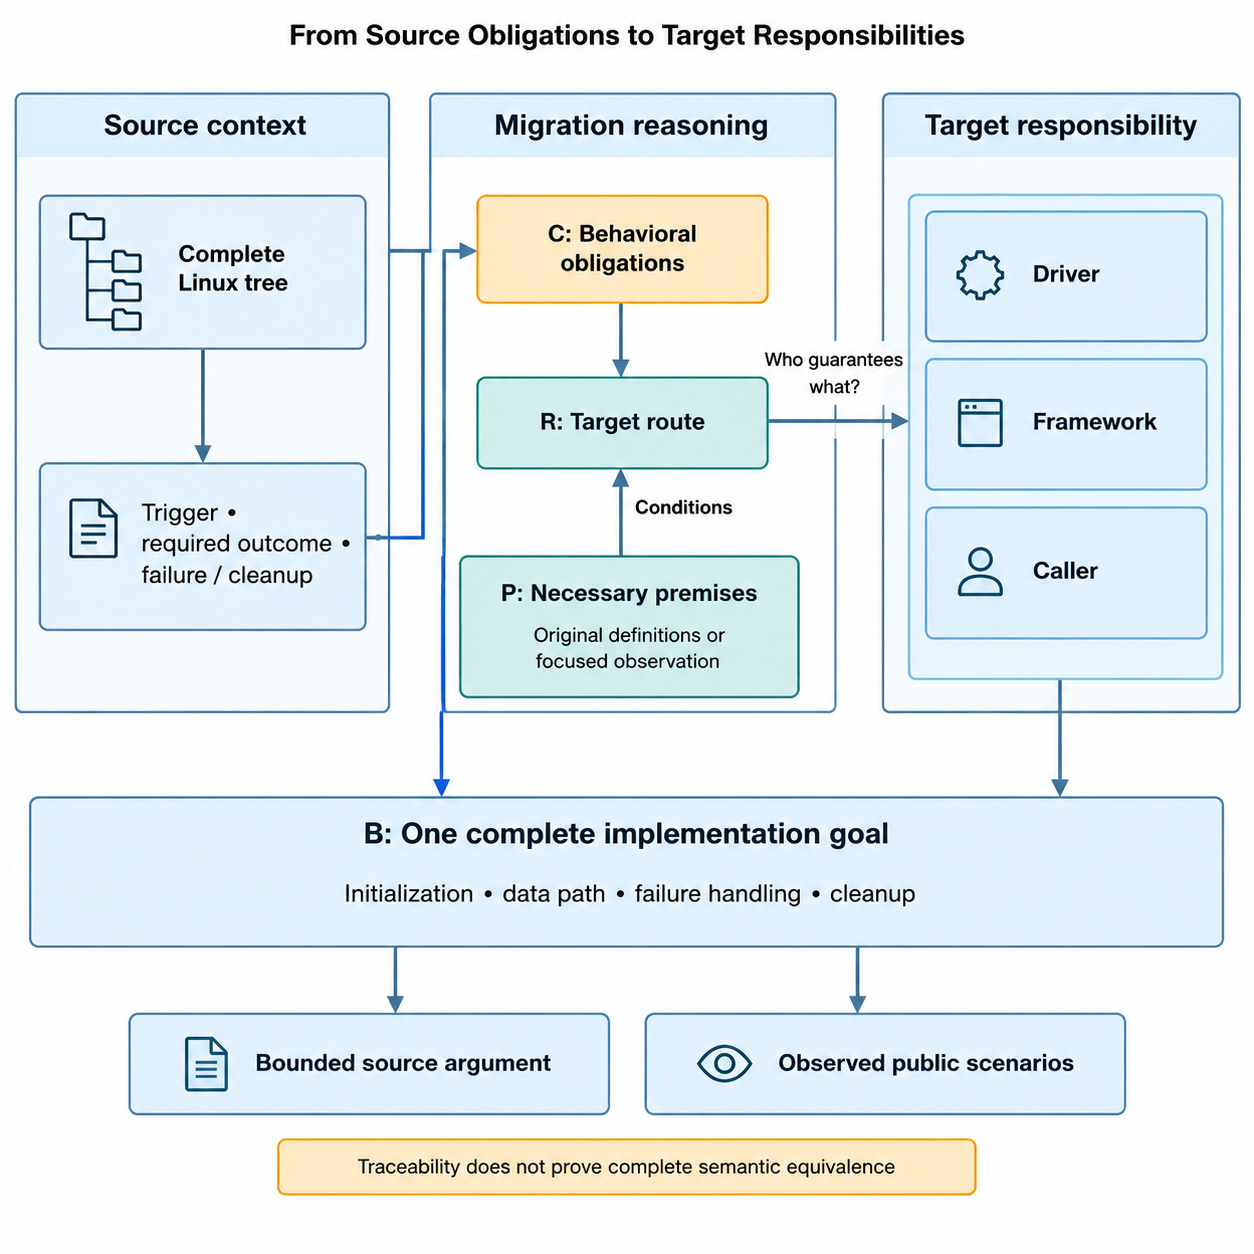
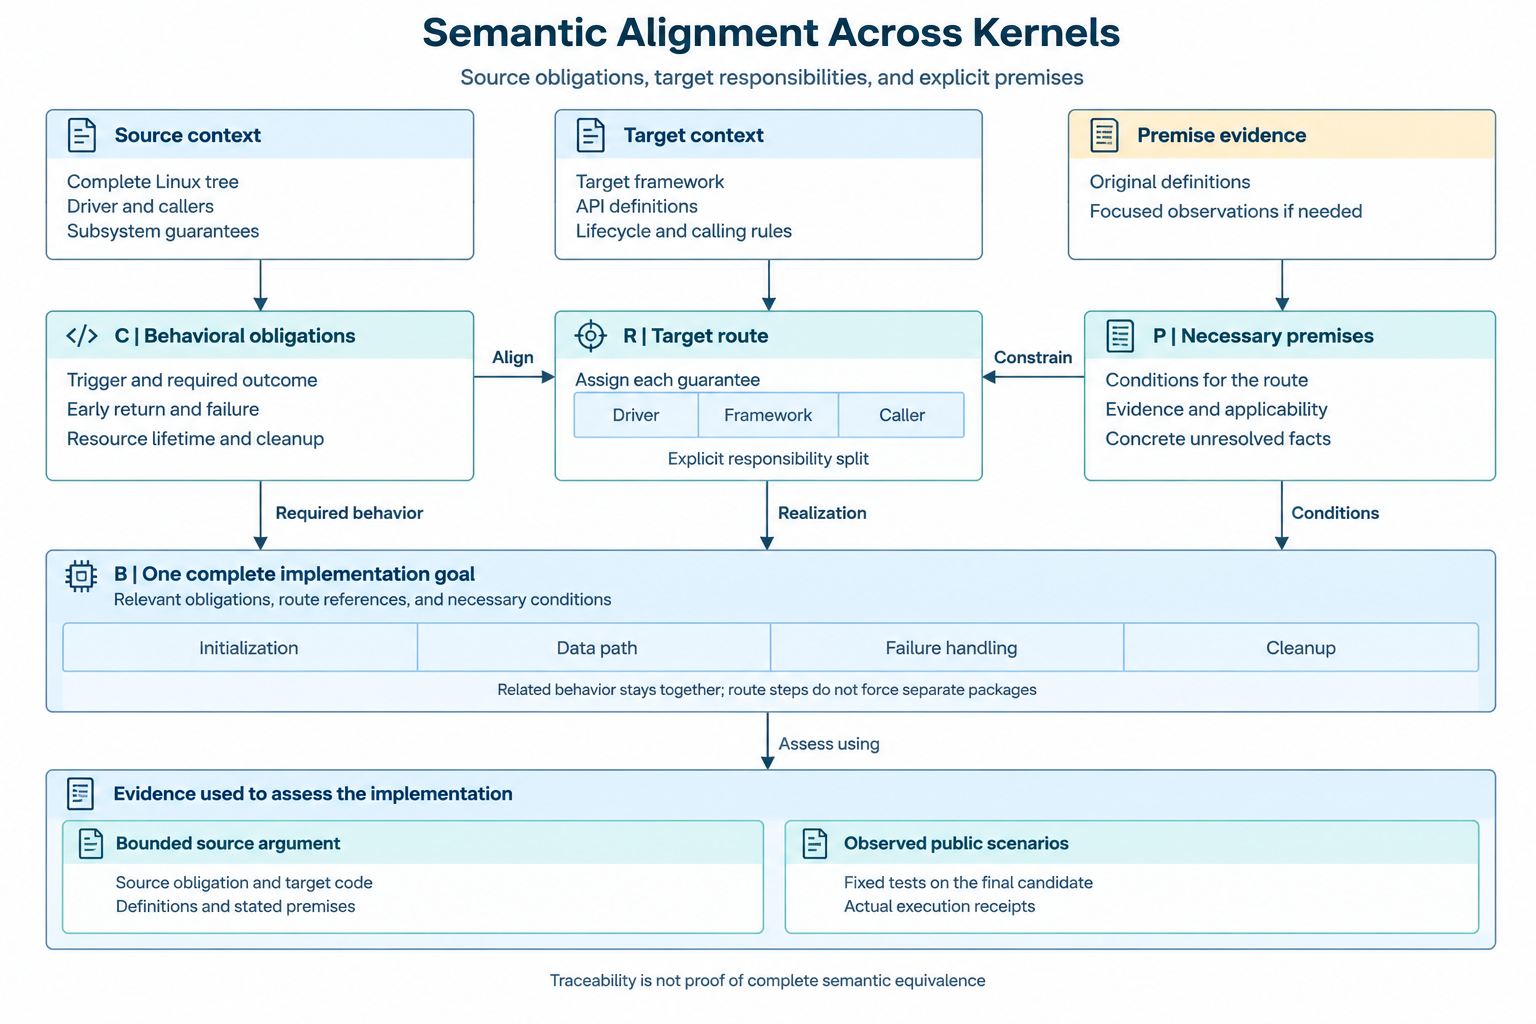
Redraw semantic alignment figure with explicit responsibility relationships

diff --git a/docs/figure-prompts/research-20261004/README.md b/docs/figure-prompts/research-20261004/README.md
@@ -1,23 +1,23 @@
 # 科研汇报配图
 
-对应[科研汇报](../../research/FACTORY_RESEARCH_REPORT.zh-CN.md)。本轮按用户要求直接使用已有图片，不重新生成，不修改图片内容。选中图片复制到报告的 `figures/` 目录，报告不依赖本地临时输出目录。
+对应[科研汇报](../../research/FACTORY_RESEARCH_REPORT.zh-CN.md)。本轮先按用户要求使用已有图片；语义对齐图随后按用户要求从头重新生成，未编辑旧图。选中图片复制到报告的 `figures/` 目录，报告不依赖本地临时输出目录。
 
 | 图 | 报告图片 | 原始文件（相对仓库根目录） | 提示词 |
 | --- | --- | --- | --- |
 | 1 总体架构 | [图片](../../research/figures/01-architecture.jpeg) | `output/imagegen/56758fea-67e3-4884-af86-b42c617751f6.jpeg` | 根目录新增图片，具体生成请求未记录；[原始架构规格](01-architecture.txt)供对照 |
-| 2 语义对齐 | [图片](../../research/figures/02-semantic-alignment.png) | `output/imagegen/research-20261004/03-semantic-alignment-final.png` | [原始规格](03-semantic-alignment.txt)、[连线修订](03-semantic-alignment-arrow-correction.txt) |
+| 2 语义对齐 | [图片](../../research/figures/02-semantic-alignment.png) | `output/imagegen/research-20261004/03-semantic-alignment-redraw.png` | [全新绘制提示词](03-semantic-alignment-redraw.txt) |
 | 3 局部修订 | [图片](../../research/figures/03-local-revision.png) | `output/imagegen/research-20261004/04-local-revision-original-1k.png` | [提示词](04-local-revision.txt) |
 | 4 知识传递 | [图片](../../research/figures/04-knowledge-flow.png) | `output/imagegen/research-20261004/02-knowledge-flow-original-1k.png` | [提示词](02-knowledge-flow.txt) |
 | 5 知识消融 | [图片](../../research/figures/05-knowledge-ablation.png) | `output/imagegen/research-20261004/05-knowledge-ablation-original-1k.png` | [提示词](05-knowledge-ablation.txt) |
 
 ## 当前状态
 
-这些是汇报插图草稿，不是已完成审校的论文定稿。图 1 已按用户指定改用 JPEG 版本，正文保留准确流程定义供核对。图 4 的义务来源及快照读取连线仍待修正，报告图注明确给出正确关系。语义对齐与消融图仍含用户不喜欢的中点分隔，后续统一替换。保留正文的准确流程图及机制解释，不以生成图片定义系统行为。
+这些是汇报插图草稿，不是已完成审校的论文定稿。图 1 已按用户指定改用 JPEG 版本，正文保留准确流程定义供核对。图 4 的义务来源及快照读取连线仍待修正，报告图注明确给出正确关系。语义对齐图已重新生成并核对主要连线，去掉中点分隔；消融图的中点分隔留待后续替换。保留正文的准确流程图及机制解释，不以生成图片定义系统行为。
 
 虚线框中的统一发现索引为计划项；消融图展示实验设计，没有测量结果。图 3 的 R1/B1、R2/B2、R3/B3 是说明局部依赖的示例，不意味着每个驱动强制拆成三个工作包。
 
 ## 生成来源与后续替换
 
-`research-20261004` 下所选生成图使用用户指定服务 `https://image.tokenskingdom.com/v1` 的 `gpt-image-2`，经 imagegen 技能 CLI 生成，请求为 high、1024×1024；文件名中的 1k 表示请求档位，实际返回像素可能不同。根目录新增图的具体请求参数未记录，不推断其模型或尺寸配置。
+`research-20261004` 下所选生成图使用用户指定服务 `https://image.tokenskingdom.com/v1` 的 `gpt-image-2`，经 imagegen 技能 CLI 生成，原有图请求为 high、1024×1024；语义对齐重绘图使用 generate（无输入图片），请求为 high、1536×1024，实际返回也是 1536×1024；文件名中的 1k 表示请求档位，实际返回像素可能不同。根目录新增图的具体请求参数未记录，不推断其模型或尺寸配置。
 
 密钥不得写入文档、提示词或 Git。报告只收录选中版本，原始候选保留在本地输出目录。后续可替换报告图片并同步更新本表，不需要改变报告正文结构。
